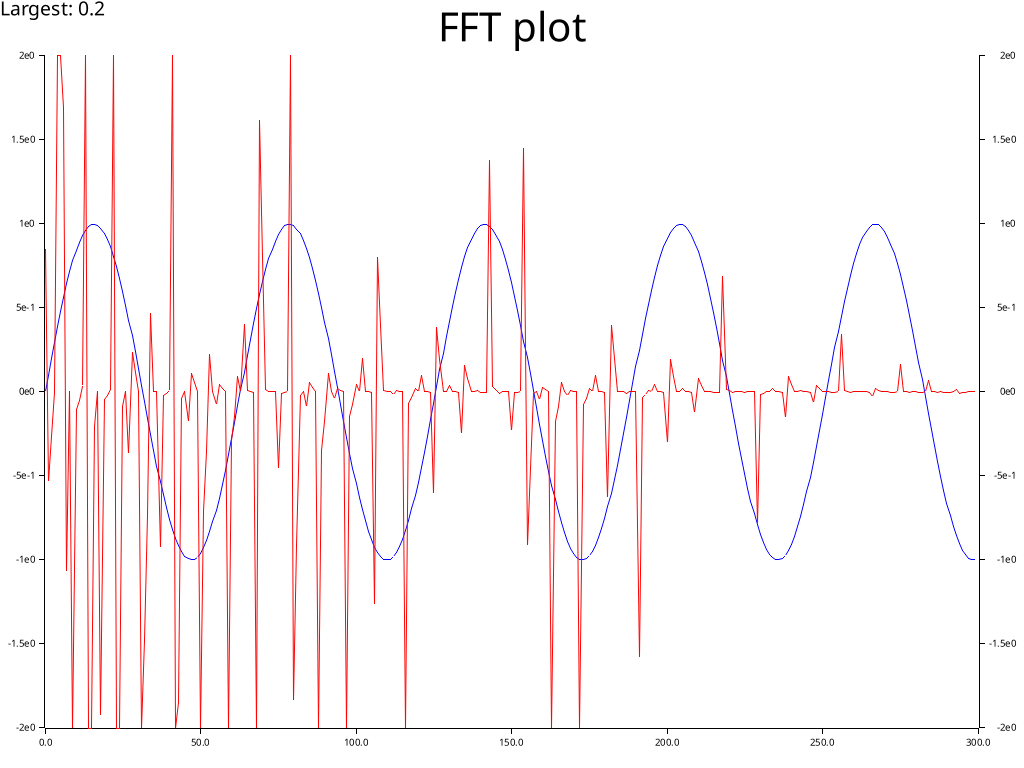
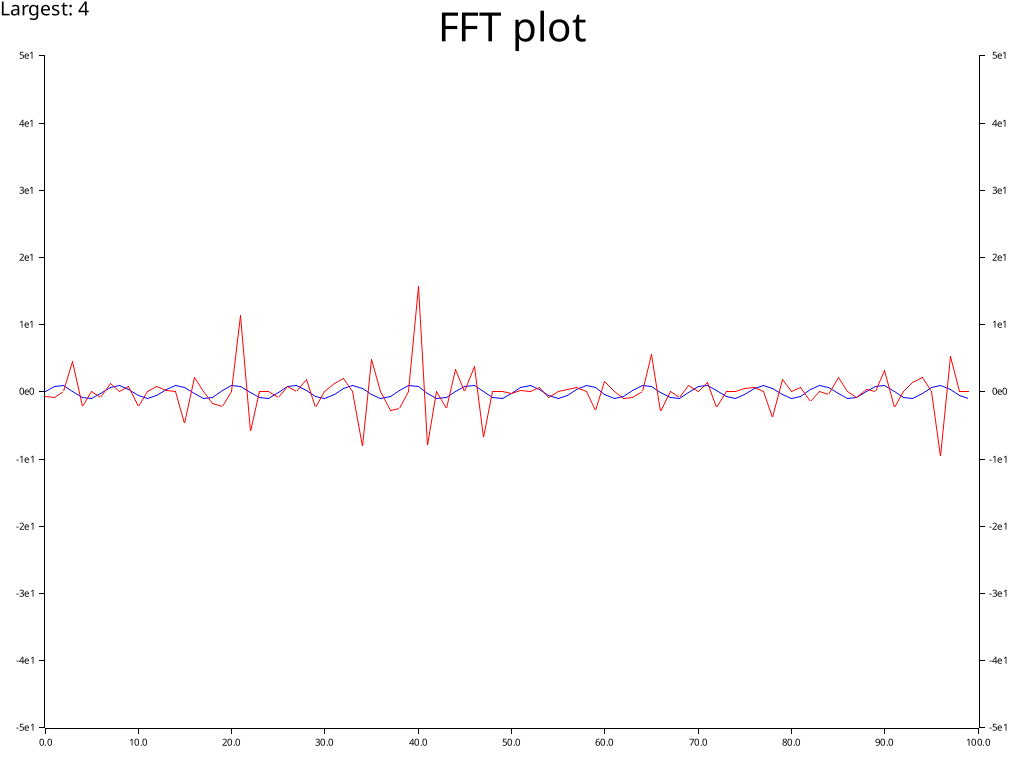
feat: add hanning window

diff --git a/src/fft.rs b/src/fft.rs
@@ -75,6 +75,14 @@ pub fn ditfft2(x: &[Complex], n: usize, s: usize) -> Vec<Complex> {
     output
 }
 
+fn hann_window(input: &mut [f32]) {
+    let len = input.len();
+    for (i, n) in input.iter_mut().enumerate() {
+        let multiplier = 0.5 * (1.0 - (2.0 * PI * i as f32 / len as f32).cos());
+        *n = multiplier * *n
+    }
+}
+
 #[cfg(test)]
 mod tests {
     use super::*;
@@ -89,12 +97,19 @@ mod tests {
 
     #[test]
     fn run_and_plot() {
-        let input: Vec<f32> = (0..300)
+        let mut input: Vec<f32> = (0..100)
             .into_iter()
-            .map(|x| (x as f32 / 20.0 * 2.0).sin())
+            .map(|x| (x as f32 / 10.0 * 10.0).sin())
             .collect();
 
-        let cinput: Vec<Complex> = input.iter().map(|n| Complex::new(*n, 0.0)).collect();
+        let mut windowed_input = input.clone();
+
+        hann_window(&mut windowed_input);
+
+        let cinput: Vec<Complex> = windowed_input
+            .iter()
+            .map(|n| Complex::new(*n, 0.0))
+            .collect();
         let out = ditfft2(&cinput, cinput.len(), 1);
 
         let mut last_largest = 0.0;
@@ -111,7 +126,7 @@ mod tests {
         root.fill(&WHITE).unwrap();
 
         root.draw_text(
-            format!("Largest: {}", max_index_at as f32 / 20.0).as_str(),
+            format!("Largest: {}", max_index_at as f32 / 10.0).as_str(),
             &("sans-serif", 24).into_text_style(&root),
             (0, 0),
         );
@@ -122,7 +137,7 @@ mod tests {
             .right_y_label_area_size(40)
             .margin(5)
             .caption("FFT plot", ("sans-serif", 50.0).into_font())
-            .build_cartesian_2d(0f32..300.0, (-2.0f32..2.0f32))
+            .build_cartesian_2d(0f32..100.0, (-50.0f32..50.0f32))
             .unwrap();
 
         chart
